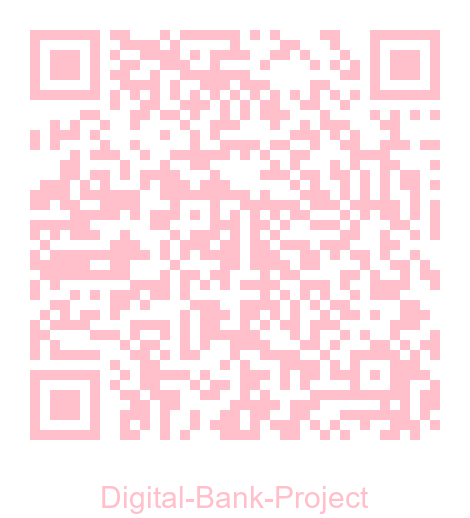
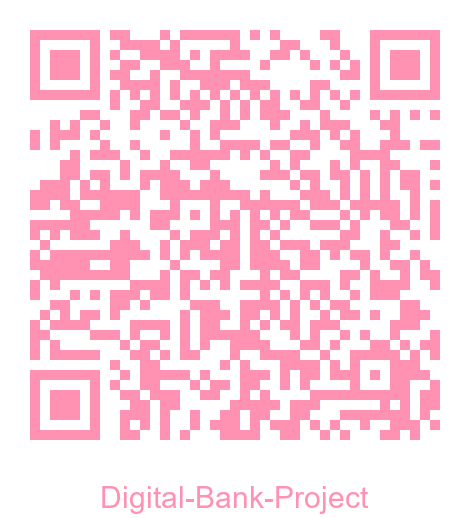
.

diff --git a/gerando_qrcode.py b/gerando_qrcode.py
@@ -1,10 +1,14 @@
 import qrcode
 from PIL import Image, ImageDraw, ImageFont
 from teste_api import repositorios
+import os
 
-def get_reposit(nome_repositorio):
-    url = f"https://github.com/hmarinhoo/{nome_repositorio}"
+def get_reposit(nome_repositorio, usuario="hmarinhoo"):
+    # Monta a URL do repositório
+    url = f"https://github.com/{usuario}/{nome_repositorio}"
+    nome_arquivo = f"qrcode_{usuario}_{nome_repositorio.replace(' ', '_')}.png"
 
+    # Cria o QR Code
     qr = qrcode.QRCode(
         version=1,
         error_correction=qrcode.constants.ERROR_CORRECT_H,
@@ -13,38 +17,42 @@ def get_reposit(nome_repositorio):
     )
     qr.add_data(url)
     qr.make(fit=True)
+    qr_img = qr.make_image(fill_color="#ff91b2", back_color="white").convert("RGB")
 
-    # Criando imagem do QR code e convertendo para RGB
-    img = qr.make_image(fill_color="pink", back_color="white").convert("RGB")
-
-    # Adicionando texto embaixo da imagem
-    draw = ImageDraw.Draw(img)
+    # Tenta carregar uma fonte, senão usa a padrão
     try:
-        font = ImageFont.truetype("arial.ttf", 30)  
+        font = ImageFont.truetype("arial.ttf", 30)
     except IOError:
         font = ImageFont.load_default()
-    
-    width, height = img.size
-    text = nome_repositorio
 
-    # Usar textbbox para medir o texto
-    bbox = draw.textbbox((0, 0), text, font=font)
+    # Medidas da imagem e do texto
+    width, height = qr_img.size
+    draw_temp = ImageDraw.Draw(qr_img)
+    bbox = draw_temp.textbbox((0, 0), nome_repositorio, font=font)
     text_width = bbox[2] - bbox[0]
     text_height = bbox[3] - bbox[1]
 
-    # Criar nova imagem com espaço para o texto
-    new_height = height + text_height + 20  # margem
-    new_img = Image.new("RGB", (width, new_height), "white")
-    new_img.paste(img, (0, 0))  # funciona agora porque img está em RGB
+    # Cria uma nova imagem maior para incluir o texto
+    new_height = height + text_height + 20
+    final_img = Image.new("RGB", (width, new_height), "white")
+    final_img.paste(qr_img, (0, 0))
 
-    # Escrever o texto na nova imagem
-    draw_new = ImageDraw.Draw(new_img)
+    # Escreve o nome do repositório centralizado abaixo do QR
+    draw_final = ImageDraw.Draw(final_img)
     position = ((width - text_width) // 2, height + 10)
-    draw_new.text(position, text, fill="pink", font=font)
+    draw_final.text(position, nome_repositorio, fill="#ff91b2", font=font)
 
-    # Salvando imagem final com texto
-    new_img.save(f"qrcode_hmarinhoo_{nome_repositorio}.png")
-    print(f"QR Code salvo: qrcode_{nome_repositorio}.png")
+    # Salva a imagem
+    try:
+        final_img.save(nome_arquivo)
+        print(f"QR Code salvo como: {nome_arquivo}")
+    except Exception as e:
+        print(f"Erro ao criar e salvar o QR Code: {e}")
 
-for repositorio in repositorios:
-    get_reposit(repositorio["nome"])
+# Vai percorrer a lista repositórios e criar um qrcpode para cada item da lista.
+def main():
+    for repositorio in repositorios:
+        get_reposit(repositorio["nome"])
+
+if __name__ == "__main__":
+    main()

diff --git a/README.md b/README.md
@@ -1,4 +1,5 @@
 # Projeto para CP3 da disciplina de IoT
+Dupla: Hellen Marinho Cordeiro - RM: 558841 e Heloisa Alves de Mesquita - RM: 559145
 
-# Como rodar o projeto?
- - 1º 
+* Para a criação dos QrCodes, foi necessário rodar o seguinte código no terminal: python gerando_qrcode.py
+ 
